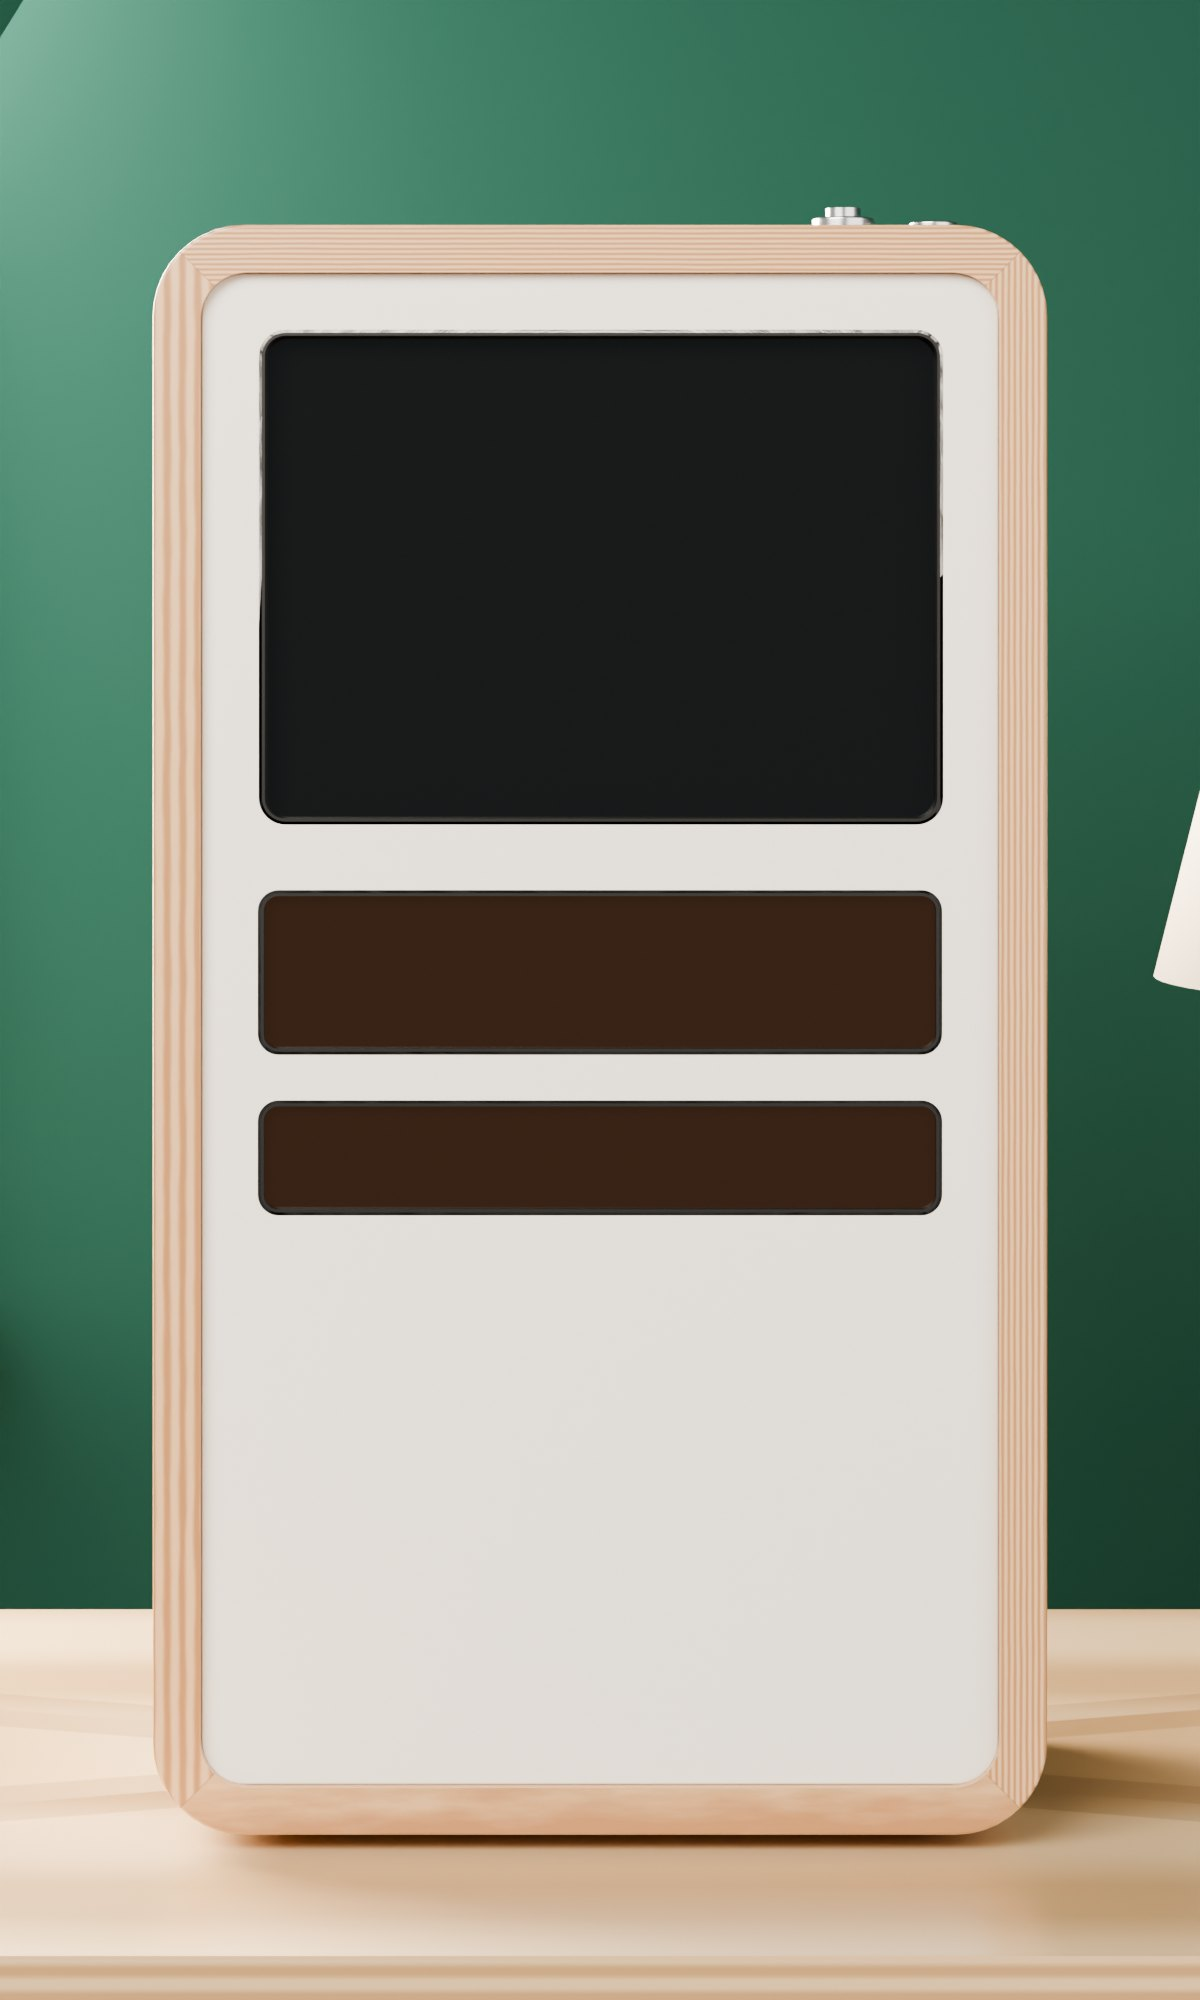
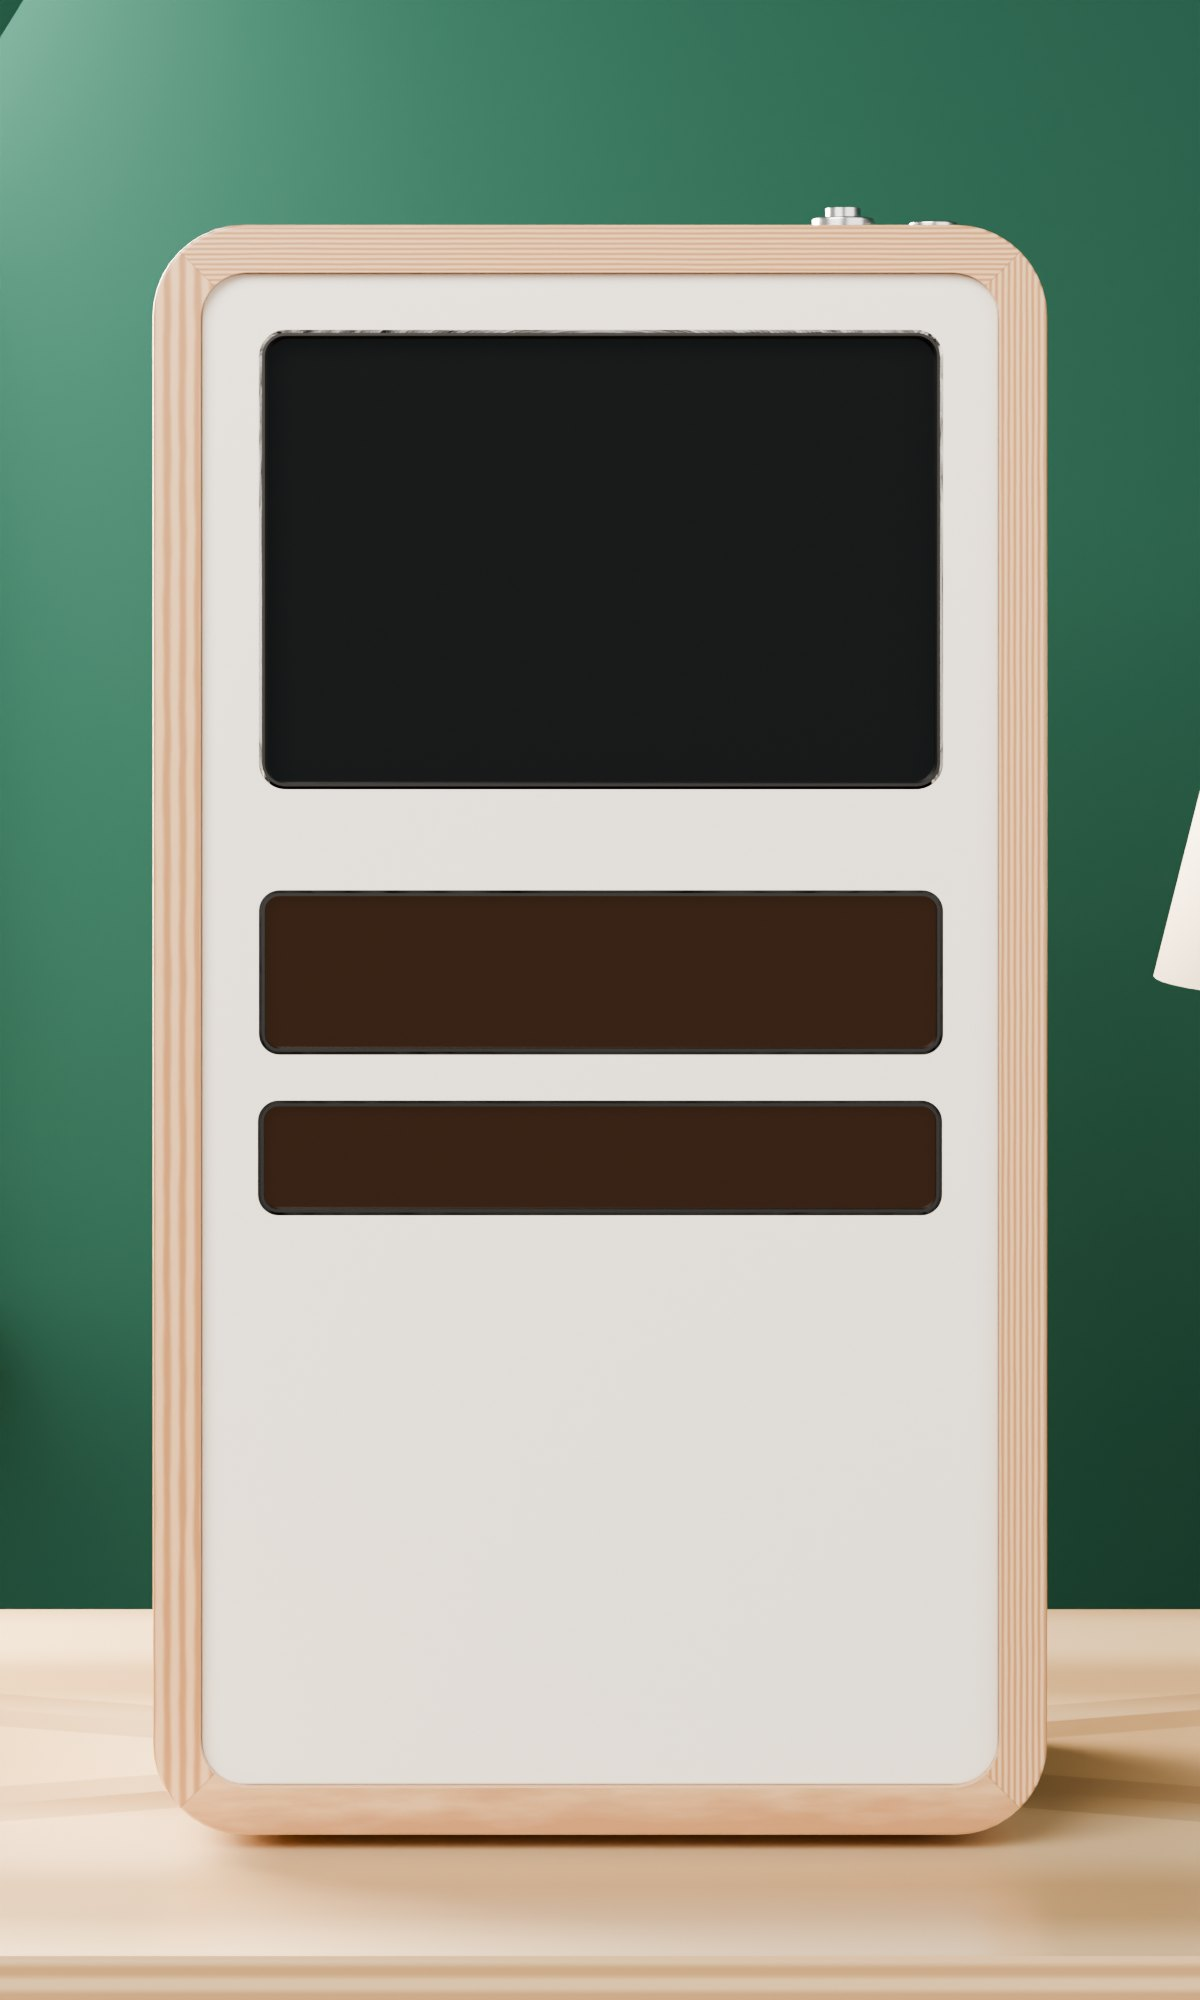
Video window 8 mm shorter, scrub slot 4 mm higher and 3 mm shorter each end, handle no longer presses in, crisp window rims
Claude-Session: https://claude.ai/code/session_016zXxRRo55eN2hv7rrcbCd4

Changed region(s): [[0.2158, 0.372, 0.8017, 0.434], [0.2158, 0.31, 0.2467, 0.341]]

diff --git a/index.html b/index.html
@@ -113,6 +113,10 @@ button{font:inherit;color:inherit}
 :root[data-theme="dark"] .vlabel{--lbl:#c9c6be}
 .vlabel.tl{font-size:calc(var(--pw) * .0115);margin-top:0}
 .tall .vlabel{margin-top:calc(var(--pw) * .018)} .tall .vlabel.tl{font-size:calc(var(--pw) * .019);margin-top:0}
+/* crisp rims on the rendered video and information windows */
+.ui-screen,.ui-display{box-shadow:0 0 0 calc(var(--pw) * .0016) #0b0907,0 calc(var(--pw) * .0012) 0 calc(var(--pw) * .0016) rgba(255,255,255,.28)}
+:root[data-theme="dark"] .ui-screen,:root[data-theme="dark"] .ui-display{box-shadow:0 0 0 calc(var(--pw) * .0016) #070605,0 calc(var(--pw) * .0012) 0 calc(var(--pw) * .0016) rgba(255,255,255,.06)}
+.ui-display{border-radius:calc(var(--pw) * .012)}
 /* scrub slider under the video window */
 .scrub{cursor:pointer;touch-action:none;-webkit-tap-highlight-color:transparent;--p:0}
 .scrub .slot{position:absolute;left:0;right:0;top:50%;height:var(--slot);transform:translateY(-50%);border-radius:999px;background:#17130f;
@@ -123,7 +127,6 @@ button{font:inherit;color:inherit}
   background:radial-gradient(circle at 38% 32%,var(--h-hi),var(--h-mid) 55%,var(--h-lo));box-shadow:0 calc(var(--pw) * .0025) 0 var(--h-edge),0 calc(var(--pw) * .004) calc(var(--pw) * .006) rgba(0,0,0,.45)}
 :root[data-theme="dark"] .scrub .handle{--h-hi:#fffdf8;--h-mid:#efebe2;--h-lo:#d4cfc3;--h-edge:#a9a497;--h-ind:#b81c0c}
 .scrub .handle::after{content:"";position:absolute;left:50%;top:22%;bottom:22%;width:2.6px;margin-left:-1.3px;border-radius:1.3px;background:var(--h-ind)}
-.scrub.dragging .handle,.scrub:active .handle{box-shadow:0 calc(var(--pw) * .001) 0 var(--h-edge),0 calc(var(--pw) * .002) calc(var(--pw) * .003) rgba(0,0,0,.4);transform:translateX(-50%) translateY(calc(var(--pw) * .0015))}
 .scrub.idle{cursor:default} .scrub.idle .handle{filter:saturate(.6)}
 .scrub:focus-visible{outline:2px solid var(--orange);outline-offset:3px;border-radius:999px}
 /* the heart takes the accent colour while the song playing is a favorite */
@@ -822,7 +825,7 @@ darkMQ&&darkMQ.addEventListener&&darkMQ.addEventListener("change",setSceneTheme)
 new MutationObserver(setSceneTheme).observe(document.documentElement,{attributes:true,attributeFilter:["data-theme"]});
 
 /* ---------- Scene geometry: the renders' camera projections, in image fractions ---------- */
-const GEOM={"wide":{"w":2880,"h":1200,"plate":[0.33182,0.38269,0.66818,0.82713],"boxes":{"screen":[0.346,0.4167,0.48772,0.66047],"display":[0.346,0.70128,0.48772,0.79312],"dial":[0.5,0.4167,0.654,0.50741],"power":[0.60393,0.29865,0.63264,0.35906],"bulb":[0.62657,0.32487,0.66041,0.37351],"gbank":[0.50094,0.53972,0.6129,0.68257],"vol":[0.61499,0.55661,0.65429,0.65095],"remove":[0.50604,0.71111,0.53092,0.77081],"prev":[0.54405,0.70882,0.57083,0.7731],"pp":[0.58238,0.70729,0.61044,0.77463],"next":[0.62198,0.70882,0.64876,0.7731]},"vol":{"d":6.4,"half":4.16},"keys":{"remove":{"w":3.9,"h":3.9,"half":2.6325000000000003},"prev":{"w":4.2,"h":4.2,"half":2.8350000000000004},"pp":{"w":4.4,"h":4.4,"half":2.9700000000000006},"next":{"w":4.2,"h":4.2,"half":2.8350000000000004}}},"tall":{"w":1200,"h":2000,"plate":[0.16771,0.13658,0.83229,0.89242],"boxes":{"screen":[0.21731,0.16634,0.78269,0.41084],"display":[0.21731,0.44655,0.78269,0.52591],"dial":[0.21731,0.5517,0.78269,0.60625],"power":[0.683,0.0636,0.72413,0.12142],"bulb":[0.74815,0.08956,0.80723,0.1349],"gbank":[0.22061,0.63452,0.63887,0.74958],"vol":[0.64614,0.64434,0.78368,0.72686],"remove":[0.24163,0.78274,0.32867,0.83496],"prev":[0.38133,0.78073,0.47507,0.83697],"pp":[0.52214,0.77939,0.62034,0.83831],"next":[0.66741,0.78073,0.76115,0.83697]},"vol":{"d":6.4,"half":4.16},"keys":{"remove":{"w":3.9,"h":3.9,"half":2.6325000000000003},"prev":{"w":4.2,"h":4.2,"half":2.8350000000000004},"pp":{"w":4.4,"h":4.4,"half":2.9700000000000006},"next":{"w":4.2,"h":4.2,"half":2.8350000000000004}}}};
+const GEOM={"wide":{"w":2880,"h":1200,"plate":[0.33182,0.38269,0.66818,0.82713],"boxes":{"screen":[0.346,0.4167,0.48772,0.64031],"display":[0.346,0.70128,0.48772,0.79312],"dial":[0.5,0.4167,0.654,0.50741],"power":[0.60393,0.29865,0.63264,0.35906],"bulb":[0.62657,0.32487,0.66041,0.37351],"gbank":[0.50094,0.53972,0.6129,0.68257],"vol":[0.61499,0.55661,0.65429,0.65095],"remove":[0.50604,0.71111,0.53092,0.77081],"prev":[0.54405,0.70882,0.57083,0.7731],"pp":[0.58238,0.70729,0.61044,0.77463],"next":[0.62198,0.70882,0.64876,0.7731]},"vol":{"d":6.4,"half":4.16},"keys":{"remove":{"w":3.9,"h":3.9,"half":2.6325000000000003},"prev":{"w":4.2,"h":4.2,"half":2.8350000000000004},"pp":{"w":4.4,"h":4.4,"half":2.9700000000000006},"next":{"w":4.2,"h":4.2,"half":2.8350000000000004}}},"tall":{"w":1200,"h":2000,"plate":[0.16771,0.13658,0.83229,0.89242],"boxes":{"screen":[0.21731,0.16634,0.78269,0.39321],"display":[0.21731,0.44655,0.78269,0.52591],"dial":[0.21731,0.5517,0.78269,0.60625],"power":[0.683,0.0636,0.72413,0.12142],"bulb":[0.74815,0.08956,0.80723,0.1349],"gbank":[0.22061,0.63452,0.63887,0.74958],"vol":[0.64614,0.64434,0.78368,0.72686],"remove":[0.24163,0.78274,0.32867,0.83496],"prev":[0.38133,0.78073,0.47507,0.83697],"pp":[0.52214,0.77939,0.62034,0.83831],"next":[0.66741,0.78073,0.76115,0.83697]},"vol":{"d":6.4,"half":4.16},"keys":{"remove":{"w":3.9,"h":3.9,"half":2.6325000000000003},"prev":{"w":4.2,"h":4.2,"half":2.8350000000000004},"pp":{"w":4.4,"h":4.4,"half":2.9700000000000006},"next":{"w":4.2,"h":4.2,"half":2.8350000000000004}}}};
[1 lines of base64/hex data omitted]
 let variant=null;
 const pc=v=>(v*100).toFixed(3)+"%";
@@ -849,8 +852,8 @@ function applyGeom(v){
    // scrub slider: a 2 mm slot as wide as the video window, centred in the strip below it, with a 7 mm round handle
    // the model is drawn at about 4.5 mm per unit (faceplate ~32 cm wide): 7 mm handle, 2 mm slot
    const MM=1/4.5, fx=hw("prev")/g.keys.prev.half, S=B.screen, mid=(S[3]+B.display[1])/2, sc=$("scrub"), hd=8.5*MM;
-   placeBox(sc,[S[0],mid-hd/2*fy,S[2],mid+hd/2*fy]);
-   sc.style.setProperty("--hw",hd*fx/(S[2]-S[0])*100+"%"); sc.style.setProperty("--slot",(2.5/8.5*100)+"%")}
+   const ins=3*MM*fx; placeBox(sc,[S[0]+ins,mid-hd/2*fy,S[2]-ins,mid+hd/2*fy]);
+   sc.style.setProperty("--hw",hd*fx/(S[2]-S[0]-2*ins)*100+"%"); sc.style.setProperty("--slot",(2.5/8.5*100)+"%")}
   {const d=g.boxes.dial,b=g.boxes.vol,x=pc((b[0]+b[2])/2);for(const id of ["order","favmode"]){const o=$(id);o.style.left=x;o.style.top=pc(d[3])}}
   setSceneTheme(); if(typeof sel==="object") renderKnob();
 }
